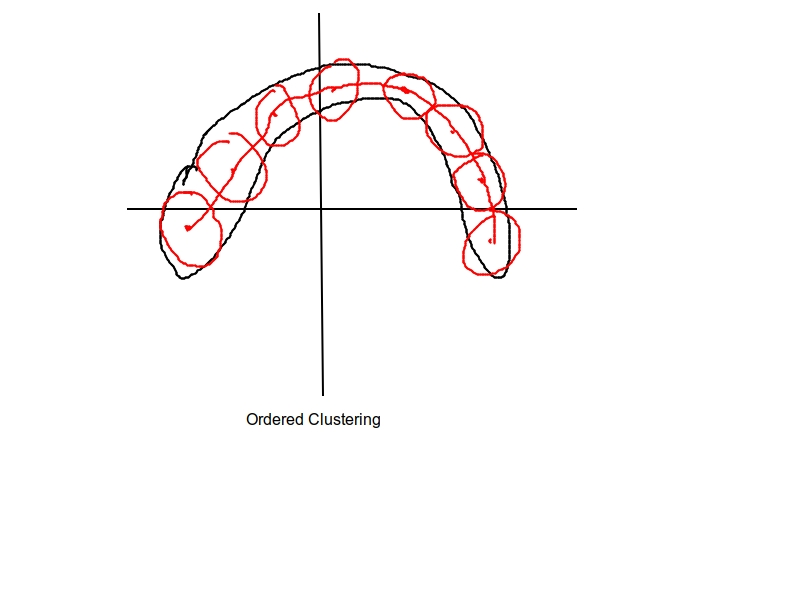
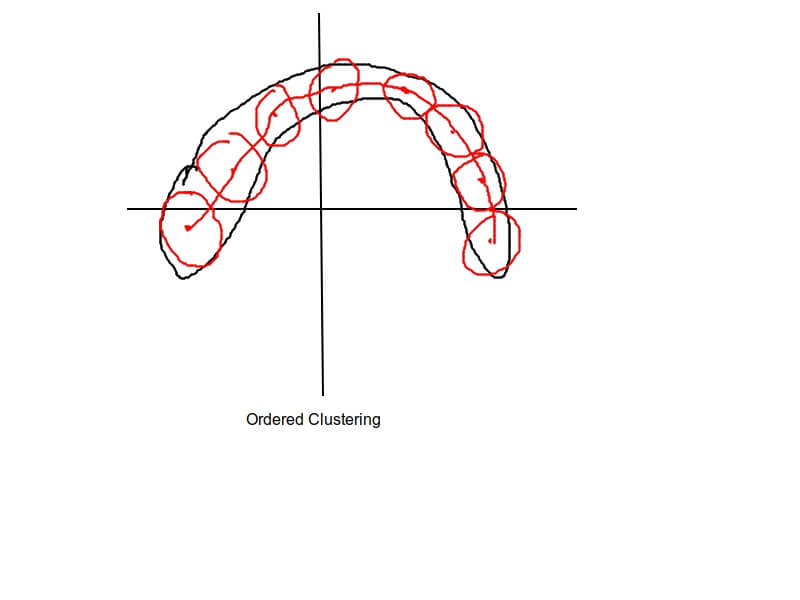
tiny png

diff --git a/images/posts/tinypng.py b/images/posts/tinypng.py
@@ -1,0 +1,94 @@
+#!/usr/bin/env python3
+# coding=utf-8
+
+# from os.path import dirname
+import os,sys, getopt
+from urllib.request import Request, urlopen
+from base64 import b64encode
+from multiprocessing import Pool
+
+poolLimite = 10
+key = "PX-pm9lAY3siS8cHIWz44zWFZHj6TtYX"
+# input = "large-input.png"
+# output = "tiny-output.png"
+opts, args = getopt.getopt(sys.argv[1:], "hi:o:r:")
+input_doc_path=""
+output_doc_path = ''
+filePaths=[]
+
+for op, value in opts:
+    if op == "-i":
+        input_doc_path = value
+    elif op == "-o":
+        output_doc_path = value
+    elif op == "-r":
+        input_doc_path = value
+        output_doc_path = value
+    elif op == "-h":
+        print('''
+        使用方法 python3 tinypng.py -i picDocPath -o outputDocPath
+        -o 参数可以为空，默认存在picDocPath/tinypng 内
+        去 https://tinypng.com/developers 申请自己的key 每key每月免费压缩500个图
+        默认并发数为10 可以自己调整''')
+
+
+def absFilePath(fileName):
+    return os.path.join(input_doc_path,fileName)
+def getTinyPng(filePath):
+    print('开始'+filePath)
+    request = Request("https://api.tinify.com/shrink", open(filePath, "rb").read())
+
+    cafile = None
+    # Uncomment below if you have trouble validating our SSL certificate.
+    # Download cacert.pem from: http://curl.haxx.se/ca/cacert.pem
+    # cafile = dirname(__file__) + "/cacert.pem"
+
+    auth = b64encode(bytes("api:" + key, "ascii")).decode("ascii")
+    request.add_header("Authorization", "Basic %s" % auth)
+
+    response = urlopen(request, cafile = cafile)
+    if response.status == 201:
+      # Compression was successful, retrieve output from Location header.
+      result = urlopen(response.getheader("Location"), cafile = cafile).read()
+
+      output = os.path.join(output_doc_path, os.path.relpath(filePath,input_doc_path))
+      open(output, "wb").write(result)
+      print('完成'+output)
+    else:
+      print('失败'+filePath)
+      # Something went wrong! You can parse the JSON body for details.
+      print("Compression failed")
+
+def main():
+    global output_doc_path
+    if output_doc_path == '':
+        output_doc_path = os.path.join(os.path.split(input_doc_path)[0], 'outputTinypng')
+    if not os.path.exists(output_doc_path):
+        os.mkdir(output_doc_path)
+
+    for parent,dirnames,filenames in os.walk(input_doc_path):    #三个参数：分别返回1.父目录 2.所有文件夹名字（不含路径） 3.所有文件名字
+      for dirname in  dirnames:                       #输出文件夹信息
+        # print("parent is:" + parent)
+        # print("dirname is" + dirname)
+        outDir = os.path.join(output_doc_path,os.path.relpath(os.path.join(parent,dirname),input_doc_path))
+        if not os.path.exists(outDir):
+            os.mkdir(outDir)
+
+      for filename in filenames:                        #输出文件信息
+        # print("parent is:" + parent)
+        # print("filename is:" + filename)
+        filePaths.append(os.path.join(parent,filename))
+
+    pngFilePaths = filter(lambda x:os.path.splitext(x)[1]=='.png' or os.path.splitext(x)[1]=='.jpg',filePaths)
+    print('Parent process %s.' % os.getpid())
+    p = Pool(poolLimite)
+    for fileName in pngFilePaths:
+        p.apply_async(getTinyPng, args=(fileName,))
+    print('Waiting for all subprocesses done...')
+    p.close()
+    p.join()
+    print('All subprocesses done.')
+
+if __name__=='__main__':
+    if os.path.isdir(input_doc_path):
+        main()
